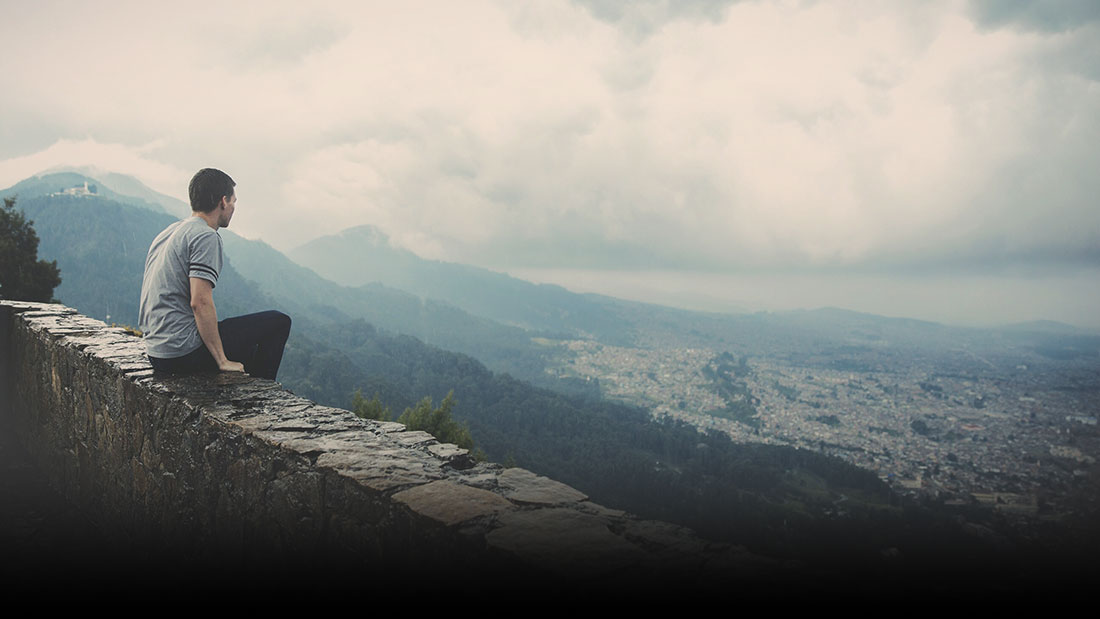
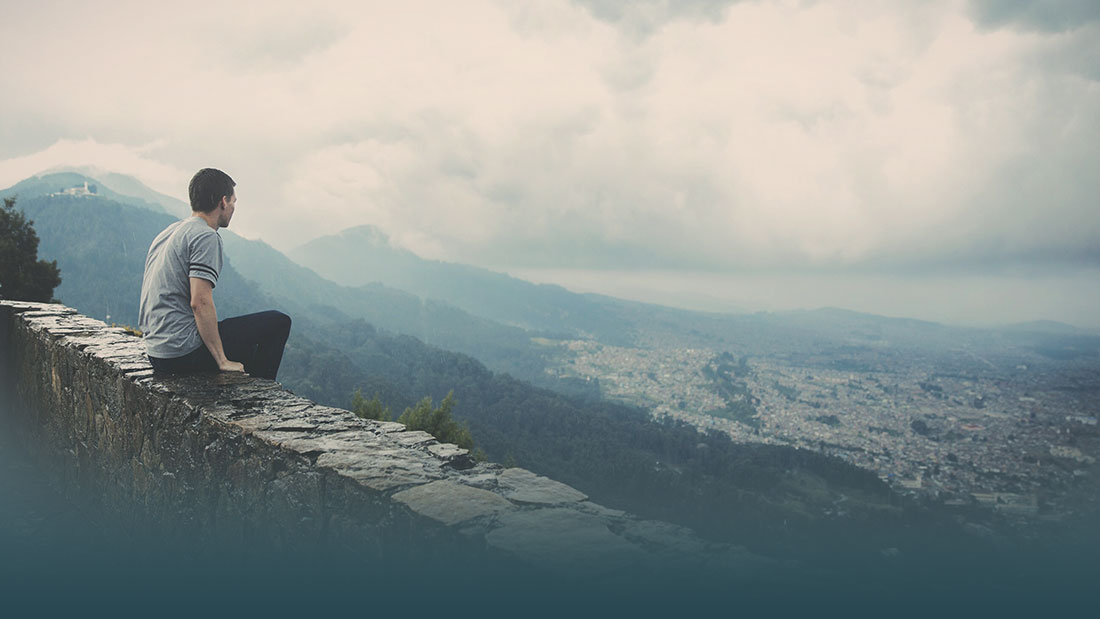
changes in images and content

Changed region(s): [[0.0, 0.6446, 1.0, 1.0]]

diff --git a/_site/index.html b/_site/index.html
@@ -41,7 +41,7 @@
                     <i class="fa fa-bars"></i>
                 </button>
                 <a class="navbar-brand page-scroll" href="#page-top">
-                    <i class="fa fa-play-circle"></i>  <span class="light">Start</span> Bootstrap
+                    <i class="fa fa-play-circle"></i>  <span class="light">Tat</span>Twam
                 </a>
             </div>
 
@@ -56,7 +56,7 @@
                         <a class="page-scroll" href="#about">About</a>
                     </li>
                     <li>
-                        <a class="page-scroll" href="#download">Download</a>
+                        <a class="page-scroll" href="#download">Book Session</a>
                     </li>
                     <li>
                         <a class="page-scroll" href="#contact">Contact</a>
@@ -74,8 +74,8 @@
             <div class="container">
                 <div class="row">
                     <div class="col-md-8 col-md-offset-2">
-                        <h1 class="brand-heading">Grayscale</h1>
-                        <p class="intro-text">A free, responsive, one page Bootstrap theme.<br>Created by Start Bootstrap.</p>
+                        <h1 class="brand-heading">Tattwam</h1>
+                        <p class="intro-text">A new way to start your journey</p>
                         <a href="#about" class="btn btn-circle page-scroll">
                             <i class="fa fa-angle-double-down animated"></i>
                         </a>

diff --git a/_site/css/grayscale.css b/_site/css/grayscale.css
@@ -9,7 +9,7 @@ body {
     height: 100%;
     font-family: Lora,"Helvetica Neue",Helvetica,Arial,sans-serif;
     color: #fff;
-    background-color: #000;
+    background-color: #28464F;
 }
 
 html {
@@ -66,7 +66,7 @@ a:focus {
     border-bottom: 1px solid rgba(255,255,255,.3);
     text-transform: uppercase;
     font-family: Montserrat,"Helvetica Neue",Helvetica,Arial,sans-serif;
-    background-color: #000;
+    background-color: #64686A;
 }
 
 .navbar-custom .navbar-brand {
@@ -136,7 +136,7 @@ a:focus {
     .navbar-custom.top-nav-collapse {
         padding: 0;
         border-bottom: 1px solid rgba(255,255,255,.3);
-        background: #000;
+        background: #64686A;
     }
 }
 
@@ -148,7 +148,7 @@ a:focus {
     text-align: center;
     color: #fff;
     background: url(../img/edge.jpg) no-repeat bottom center scroll;
-    background-color: #000;
+    background-color: #64686A;
     -webkit-background-size: cover;
     -moz-background-size: cover;
     background-size: cover;
@@ -266,7 +266,7 @@ a:focus {
     padding: 50px 0;
     color: #fff;
     background: url(../img/downloads-bg.jpg) no-repeat center center scroll;
-    background-color: #000;
+    background-color: #64686A;
     -webkit-background-size: cover;
     -moz-background-size: cover;
     background-size: cover;
